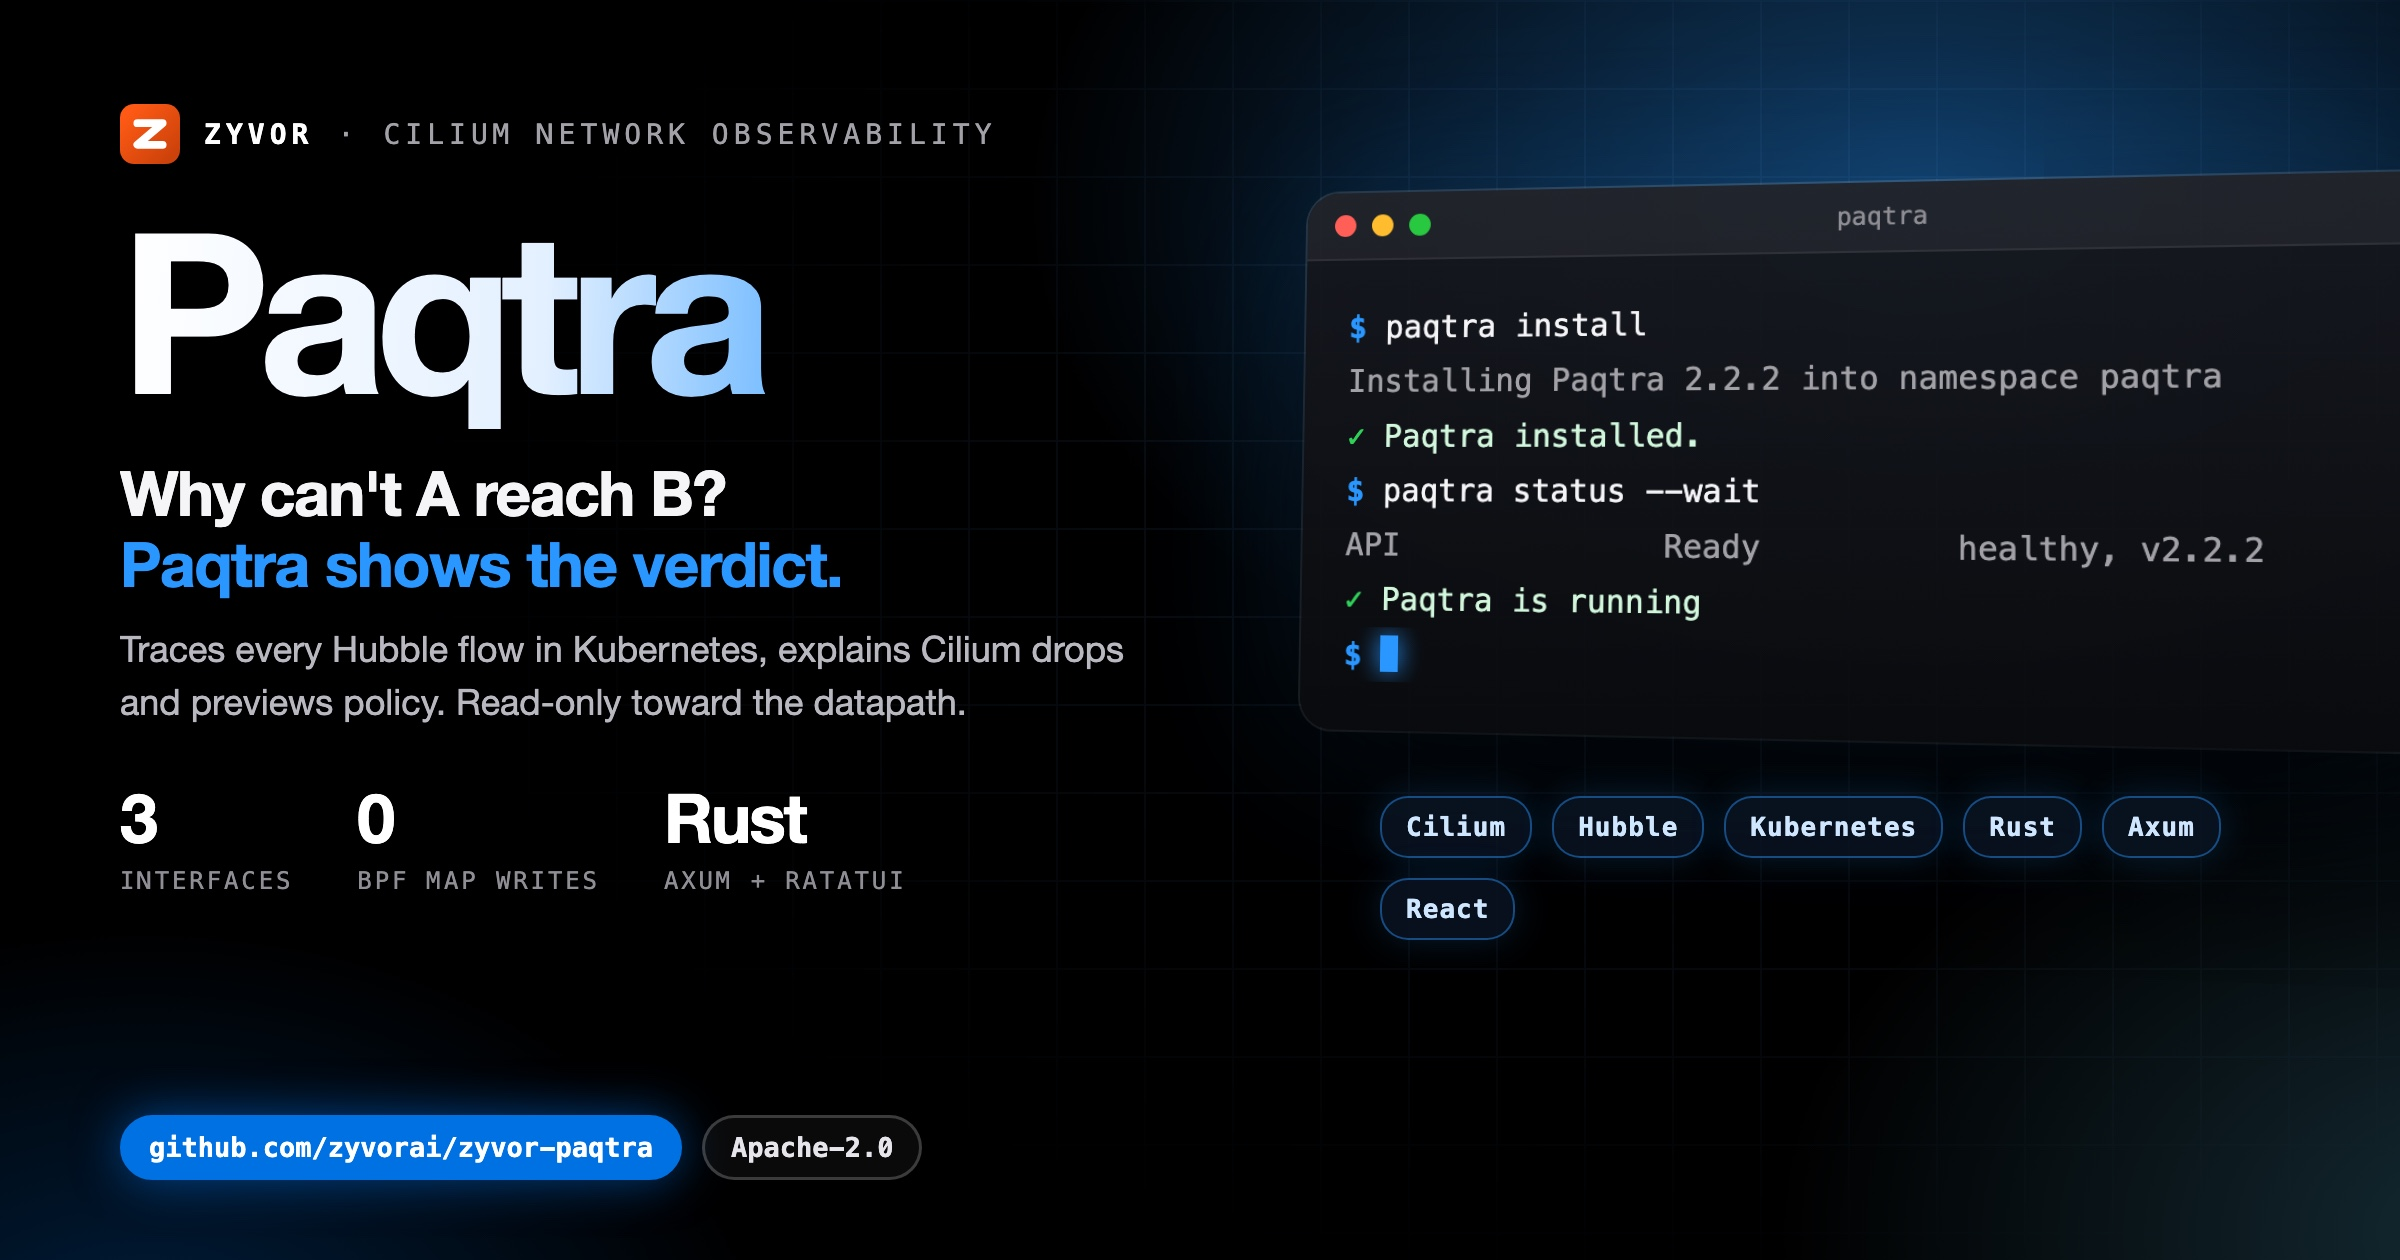
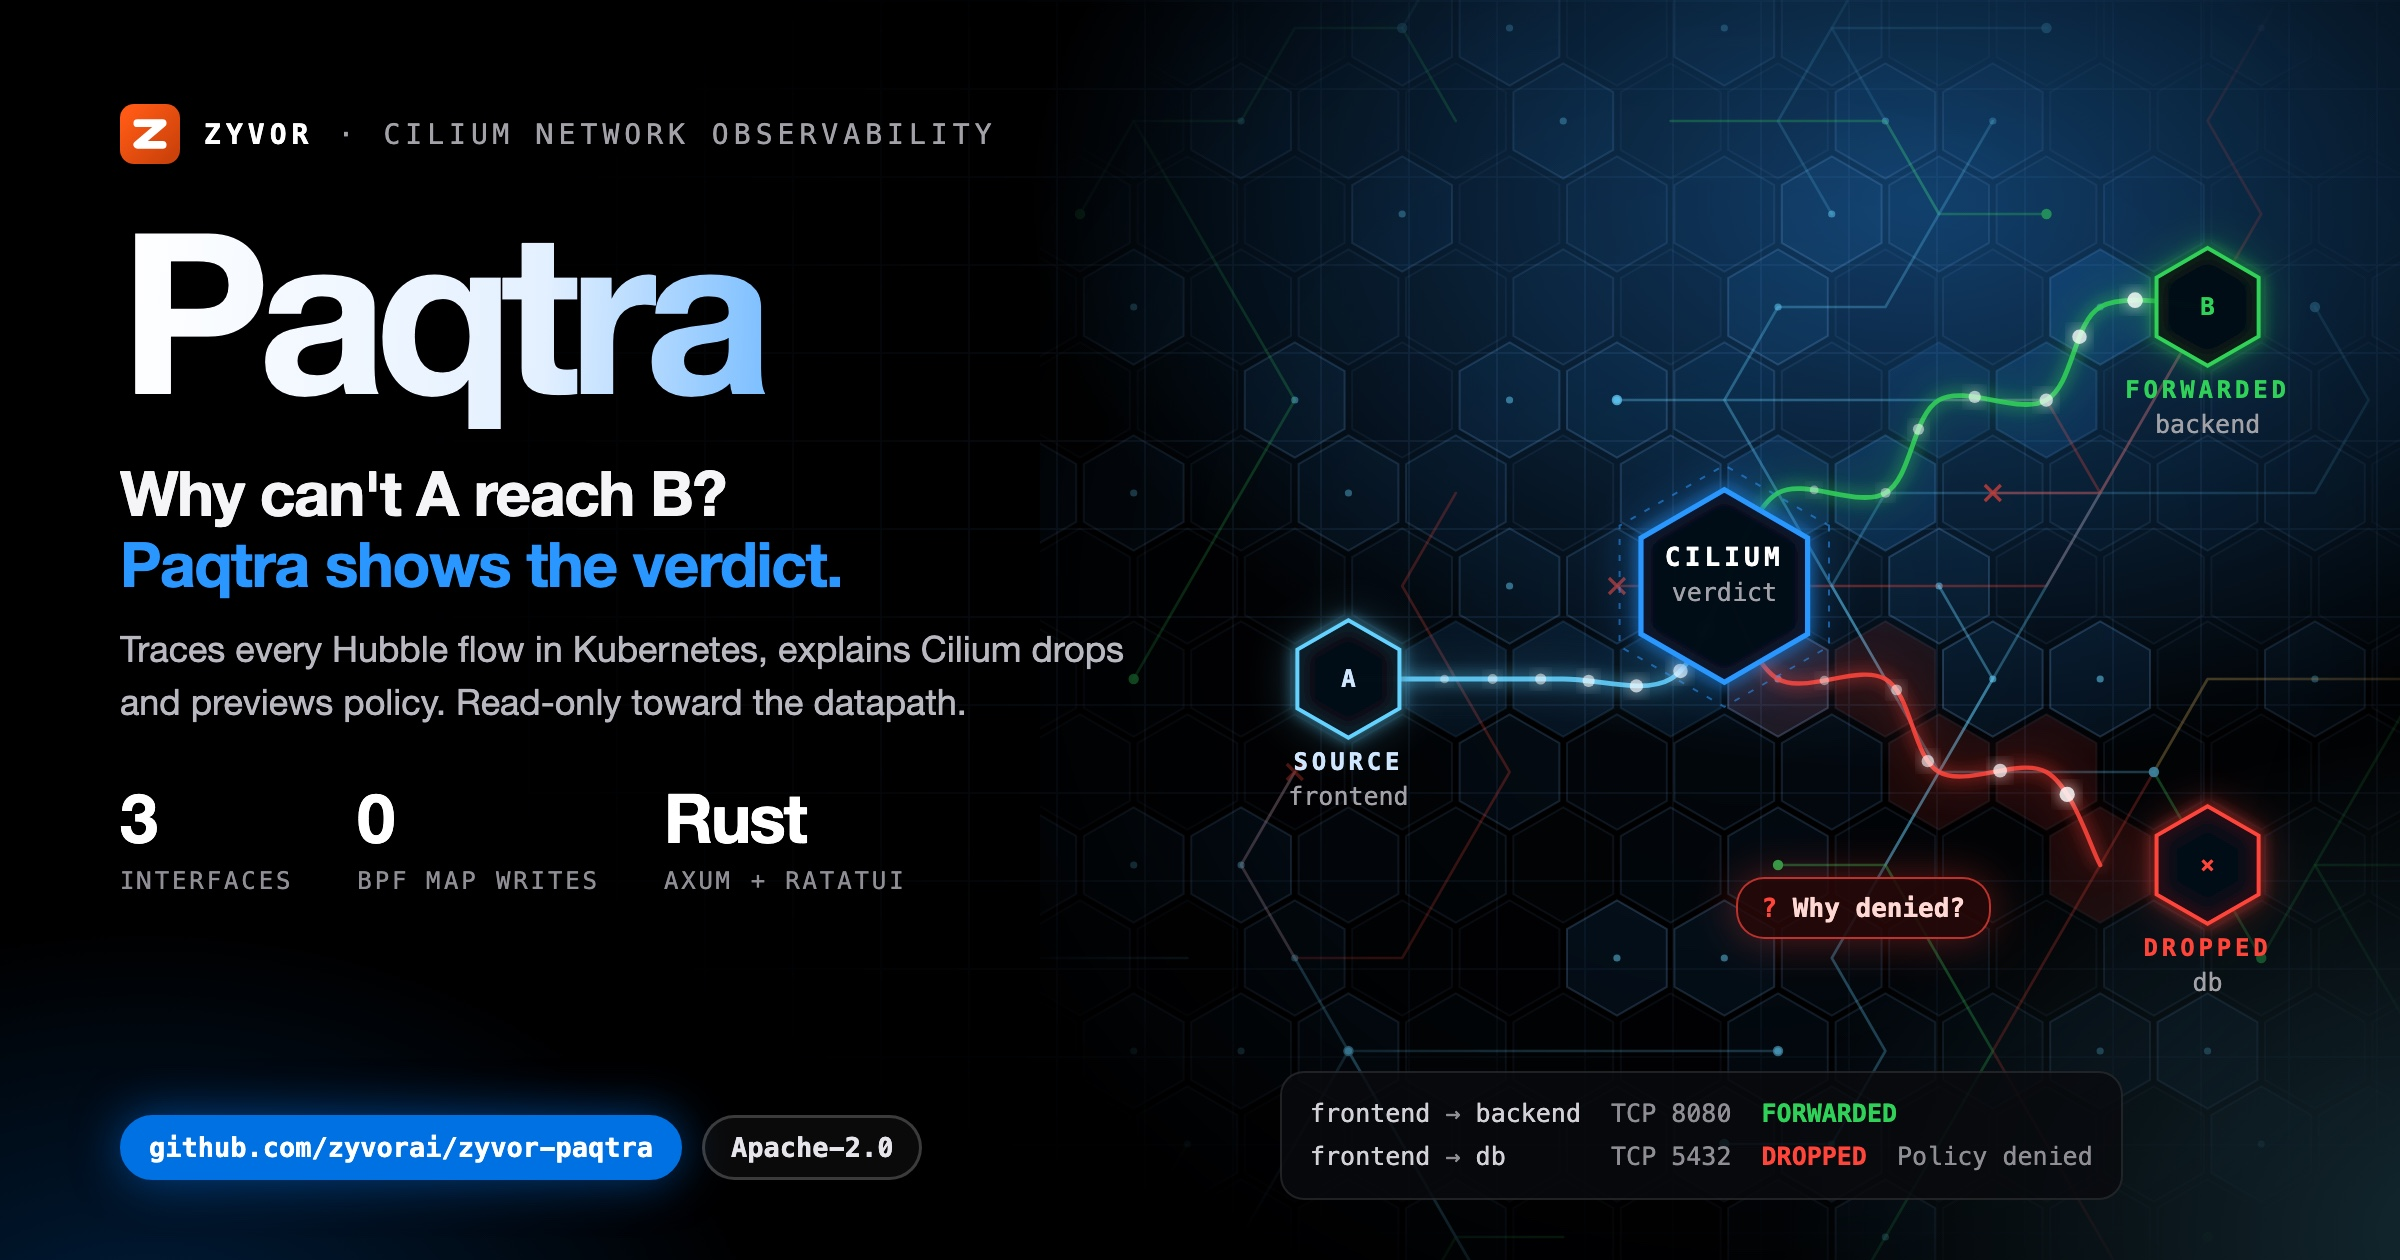
docs(social): Cilium honeycomb hero with a traced A-to-B verdict
Hex lattice of workloads with ambient Hubble flow trails; one traced
packet runs from frontend through the Cilium verdict hex, forwarded to
backend and dropped at db with a Why denied? callout. Point the docs
site social image at the new card.

Changed region(s): [[0.5312, 0.1238, 1.0, 0.8357], [0.5312, 0.8667, 0.875, 0.9286], [0.5312, 0.7429, 0.5625, 0.7738]]

diff --git a/docs/social/paqtra-hero-dark.html b/docs/social/paqtra-hero-dark.html
@@ -8,7 +8,7 @@
   Build: ./docs/social/build-hero-dark.sh  ->  paqtra-hero-dark.jpg (2400x1260)
 -->
 <style>
-  :root { --blue:#0071e3; --signal:#2997ff; --cyan:#64d2ff; --green:#30d158; --amber:#ff9f0a;
+  :root { --blue:#0071e3; --signal:#2997ff; --cyan:#64d2ff; --green:#30d158; --amber:#ff9f0a; --red:#ff453a;
     --sans:'SF Pro Display','Helvetica Neue',Helvetica,Arial,sans-serif; --mono:'SF Mono',Menlo,Consolas,monospace; }
   * { box-sizing:border-box; }
   html,body { margin:0; padding:0; }
@@ -35,25 +35,18 @@
   .pill span { font-family:var(--mono); font-size:13.5px; font-weight:700; padding:7px 13px; border-radius:18px; border:1.5px solid rgba(255,255,255,.2); color:#e5e5ea; background:rgba(255,255,255,.04); }
   .pill span.b { background:var(--blue); border-color:var(--blue); color:#fff; box-shadow:0 0 24px rgba(0,113,227,.55); }
 
-  .right { position:absolute; left:652px; top:96px; width:560px; z-index:2; }
-  .win { position:relative; width:560px; border-radius:16px; overflow:hidden; z-index:2;
-    background:linear-gradient(180deg, rgba(22,24,30,.94), rgba(10,11,14,.96));
-    box-shadow:0 50px 100px rgba(0,0,0,.75), 0 0 0 1px rgba(255,255,255,.14), 0 0 90px rgba(41,151,255,.22);
-    transform:perspective(1600px) rotateY(-14deg) rotateX(4deg); transform-origin:left center; }
-  .bar { height:34px; display:flex; align-items:center; gap:8px; padding:0 14px; background:rgba(255,255,255,.05); border-bottom:1px solid rgba(255,255,255,.07); }
-  .bar i { width:11px; height:11px; border-radius:50%; background:#ff5f57; } .bar i:nth-child(2){background:#febc2e} .bar i:nth-child(3){background:#28c840}
-  .bar em { margin-left:auto; margin-right:auto; font-style:normal; font-family:var(--mono); font-size:12px; color:#8e8e93; transform:translateX(-24px); }
-  .term { min-height:214px; padding:20px 22px 24px; font-family:var(--mono); font-size:15.5px; line-height:1.75; }
-  .l { white-space:pre; overflow:hidden; text-overflow:ellipsis; color:#f5f5f7; }
-  .l .p { color:var(--signal); font-weight:700; }
-  .l.out { color:#a1a1a6; }
-  .l.cm { color:#6e6e73; }
-  .l.ok { color:#d1f7dc; } .l.ok span { color:var(--green); font-weight:700; }
-  .l.warn { color:#ffe1b0; } .l.warn span { color:var(--amber); font-weight:700; }
-  .cur { display:inline-block; width:9px; height:18px; background:var(--signal); vertical-align:-3px; box-shadow:0 0 12px var(--signal); }
-  .chips { margin:34px 0 0 38px; width:480px; display:flex; flex-wrap:wrap; gap:10px; position:relative; z-index:3; }
-  .chips span { font-family:var(--mono); font-size:13px; font-weight:700; letter-spacing:.04em; padding:7px 12px; border-radius:14px;
-    color:#cfe6ff; background:rgba(10,20,35,.82); border:1px solid rgba(41,151,255,.45); box-shadow:0 0 18px rgba(41,151,255,.18); }
+  .hive { position:absolute; left:520px; top:0; width:680px; height:630px; z-index:2; }
+  .hive svg { display:block; }
+  .lbl { position:absolute; z-index:4; font-family:var(--mono); text-align:center; transform:translate(-50%,-50%); white-space:nowrap; }
+  .lbl b { display:block; font-size:12px; letter-spacing:.16em; text-transform:uppercase; }
+  .lbl span { display:block; margin-top:3px; font-size:12.5px; color:#a1a1a6; }
+  .lbl.a b { color:#cfe6ff; } .lbl.c b { color:#fff; font-size:13px; } .lbl.ok b { color:var(--green); } .lbl.no b { color:var(--red); }
+  .why { position:absolute; z-index:5; font-family:var(--mono); font-size:13px; font-weight:700; padding:7px 12px; border-radius:14px;
+    color:#ffd7d3; background:rgba(40,8,8,.85); border:1px solid rgba(255,69,58,.7); box-shadow:0 0 22px rgba(255,69,58,.35); }
+  .why i { font-style:normal; color:var(--red); }
+  .flow { position:absolute; left:640px; bottom:30px; z-index:5; font-family:var(--mono); font-size:12.5px; line-height:1.7; color:#8e8e93;
+    padding:10px 14px; border-radius:12px; white-space:pre; background:rgba(8,10,14,.82); border:1px solid rgba(255,255,255,.1); }
+  .flow .f { color:var(--green); font-weight:700; } .flow .d { color:var(--red); font-weight:700; } .flow em { font-style:normal; color:#d1d1d6; }
 </style>
 </head>
 <body>
@@ -67,8 +60,95 @@
   <div class="stats"><div class="stat"><b>3</b><span>interfaces</span></div><div class="stat"><b>0</b><span>BPF map writes</span></div><div class="stat"><b>Rust</b><span>Axum + Ratatui</span></div></div>
 </div>
 <div class="pill"><span class="b">github.com/zyvorai/zyvor-paqtra</span><span>Apache-2.0</span></div>
-<div class="right"><div class="win"><div class="bar"><i></i><i></i><i></i><em>paqtra</em></div>
-<div class="term"><div class="l"><span class="p">$</span> paqtra install</div><div class="l out">Installing Paqtra 2.2.2 into namespace paqtra</div><div class="l ok"><span>&#10003;</span> Paqtra installed.</div><div class="l"><span class="p">$</span> paqtra status --wait</div><div class="l out">API              Ready          healthy, v2.2.2</div><div class="l ok"><span>&#10003;</span> Paqtra is running</div><div class="l"><span class="p">$</span> <i class="cur"></i></div></div></div>
-<div class="chips"><span>Cilium</span><span>Hubble</span><span>Kubernetes</span><span>Rust</span><span>Axum</span><span>React</span></div></div>
+<div class="hive"><svg id="hive" width="680" height="630" viewBox="0 0 680 630" xmlns="http://www.w3.org/2000/svg">
+  <defs>
+    <radialGradient id="fade" cx="52%" cy="48%" r="62%"><stop offset="0" stop-color="#fff"/><stop offset=".62" stop-color="#fff" stop-opacity=".55"/><stop offset="1" stop-color="#fff" stop-opacity="0"/></radialGradient>
+    <mask id="m"><rect width="680" height="630" fill="url(#fade)"/></mask>
+    <filter id="glow" x="-50%" y="-50%" width="200%" height="200%"><feGaussianBlur stdDeviation="4" result="b"/><feMerge><feMergeNode in="b"/><feMergeNode in="SourceGraphic"/></feMerge></filter>
+    <filter id="soft" x="-50%" y="-50%" width="200%" height="200%"><feGaussianBlur stdDeviation="10"/></filter>
+  </defs>
+  <g id="cells" mask="url(#m)"></g>
+  <g id="ambient" mask="url(#m)"></g>
+  <g id="trace"></g>
+</svg></div>
+<div id="labels"></div>
+<div class="flow"><div><em>frontend</em> &rarr; <em>backend</em>  TCP 8080  <span class="f">FORWARDED</span></div><div><em>frontend</em> &rarr; <em>db</em>       TCP 5432  <span class="d">DROPPED</span>  Policy denied</div></div>
+<script>
+(function () {
+  var NS = 'http://www.w3.org/2000/svg', S = 31, R3 = Math.sqrt(3), OX = 20, OY = 14;
+  var seed = 20261004;
+  function rnd() { seed = (seed * 1103515245 + 12345) % 2147483648; return seed / 2147483648; }
+  function el(tag, a, parent) { var e = document.createElementNS(NS, tag); for (var k in a) e.setAttribute(k, a[k]); parent.appendChild(e); return e; }
+  function px(q, r) { return [OX + S * R3 * (q + r / 2), OY + S * 1.5 * r]; }
+  function hexPts(cx, cy, s) { var p = []; for (var i = 0; i < 6; i++) { var a = Math.PI / 180 * (60 * i - 30); p.push((cx + s * Math.cos(a)).toFixed(1) + ',' + (cy + s * Math.sin(a)).toFixed(1)); } return p.join(' '); }
+  function round(q, r) { var x = q, z = r, y = -x - z, rx = Math.round(x), ry = Math.round(y), rz = Math.round(z);
+    var dx = Math.abs(rx - x), dy = Math.abs(ry - y), dz = Math.abs(rz - z);
+    if (dx > dy && dx > dz) rx = -ry - rz; else if (dy <= dz) rz = -rx - ry; return [rx, rz]; }
+  function cellAt(x, y) { var r = (y - OY) / (S * 1.5), q = (x - OX) / (S * R3) - r / 2; return round(q, r); }
+  function line(a, b) { var n = Math.max(Math.abs(a[0] - b[0]), Math.abs(a[1] - b[1]), Math.abs((a[0] + a[1]) - (b[0] + b[1]))), out = [];
+    for (var i = 0; i <= n; i++) { var t = n ? i / n : 0; out.push(round(a[0] + (b[0] - a[0]) * t + 1e-6, a[1] + (b[1] - a[1]) * t + 1e-6)); } return out; }
+  function route(ws) { var out = []; for (var i = 0; i + 1 < ws.length; i++) { var l = line(ws[i], ws[i + 1]); if (i) l.shift(); out = out.concat(l); } return out; }
+  function smooth(cells) { var p = cells.map(function (c) { return px(c[0], c[1]); }), d = 'M' + p[0][0].toFixed(1) + ',' + p[0][1].toFixed(1);
+    for (var i = 0; i + 1 < p.length; i++) { var p0 = p[i - 1] || p[i], p1 = p[i], p2 = p[i + 1], p3 = p[i + 2] || p2;
+      d += ' C' + (p1[0] + (p2[0] - p0[0]) / 6).toFixed(1) + ',' + (p1[1] + (p2[1] - p0[1]) / 6).toFixed(1) + ' ' + (p2[0] - (p3[0] - p1[0]) / 6).toFixed(1) + ',' + (p2[1] - (p3[1] - p1[1]) / 6).toFixed(1) + ' ' + p2[0].toFixed(1) + ',' + p2[1].toFixed(1); }
+    return d; }
+
+  var cells = document.getElementById('cells'), amb = document.getElementById('ambient'), tr = document.getElementById('trace');
+  var key = function (c) { return c[0] + ':' + c[1]; }, all = [];
+  for (var r = -1; r < 15; r++) for (var q = -Math.ceil(r / 2) - 1; q < 15 - Math.floor(r / 2); q++) {
+    var c = px(q, r); if (c[0] < -40 || c[0] > 720 || c[1] < -40 || c[1] > 670) continue; all.push([q, r]);
+    var heat = Math.pow(rnd(), 2.4);
+    el('polygon', { points: hexPts(c[0], c[1], S - 2.2), fill: 'rgba(41,151,255,' + (0.015 + heat * 0.13).toFixed(3) + ')', stroke: 'rgba(120,185,255,' + (0.10 + heat * 0.22).toFixed(3) + ')', 'stroke-width': 1 }, cells);
+    if (heat > 0.55) el('circle', { cx: c[0], cy: c[1], r: 1.8, fill: '#64d2ff', opacity: (0.3 + heat * 0.5).toFixed(2) }, cells);
+  }
+
+  var dirs = [[1, 0], [1, -1], [0, -1], [-1, 0], [-1, 1], [0, 1]];
+  for (var w = 0; w < 30; w++) {
+    var cur = all[Math.floor(rnd() * all.length)], path = [cur], d = Math.floor(rnd() * 6), n = 4 + Math.floor(rnd() * 7);
+    for (var k = 0; k < n; k++) { if (rnd() < 0.35) d = (d + (rnd() < 0.5 ? 1 : 5)) % 6; cur = [cur[0] + dirs[d][0], cur[1] + dirs[d][1]]; path.push(cur); }
+    var drop = rnd() < 0.16, col = drop ? '#ff453a' : (rnd() < 0.5 ? '#30d158' : '#64d2ff'), op = (0.22 + rnd() * 0.3).toFixed(2);
+    el('polyline', { points: path.map(function (c) { var q = px(c[0], c[1]); return q[0].toFixed(1) + ',' + q[1].toFixed(1); }).join(' '), fill: 'none', 'stroke-linejoin': 'round', stroke: col, 'stroke-width': 1.3, 'stroke-linecap': 'round', opacity: op }, amb);
+    var e = px(cur[0], cur[1]);
+    if (drop) { el('path', { d: 'M' + (e[0] - 4) + ',' + (e[1] - 4) + 'l8,8m0,-8l-8,8', stroke: col, 'stroke-width': 1.6, opacity: op * 1.6 }, amb); }
+    else el('circle', { cx: e[0], cy: e[1], r: 2.6, fill: col, opacity: Math.min(1, op * 2.2) }, amb);
+  }
+
+  var A = cellAt(150, 330), C = cellAt(350, 280), B = cellAt(570, 140), D = cellAt(560, 430);
+  var fwd = route([A, cellAt(250, 350), C, cellAt(440, 200), B]);
+  var drp = route([C, cellAt(430, 380), D]);
+  function lightCells(list, col) { list.forEach(function (c) { var p = px(c[0], c[1]); el('polygon', { points: hexPts(p[0], p[1], S - 2.2), fill: col, opacity: .10, stroke: col, 'stroke-opacity': .45, 'stroke-width': 1.2 }, tr); }); }
+  lightCells(fwd, '#2997ff'); lightCells(drp.slice(1, -1), '#ff453a');
+
+  function beads(d, col, n, w) {
+    el('path', { d: d, fill: 'none', stroke: col, 'stroke-width': w * 3, opacity: .25, filter: 'url(#soft)' }, tr);
+    var p = el('path', { d: d, fill: 'none', stroke: col, 'stroke-width': w, 'stroke-linecap': 'round', opacity: .9, filter: 'url(#glow)' }, tr);
+    var L = p.getTotalLength();
+    for (var i = 1; i < n; i++) { var t = i / n, pt = p.getPointAtLength(L * t); el('circle', { cx: pt.x, cy: pt.y, r: (1.6 + 2.6 * t).toFixed(2), fill: '#fff', opacity: (0.25 + 0.7 * t).toFixed(2), filter: 'url(#glow)' }, tr); }
+    return p;
+  }
+  beads(smooth(route([A, cellAt(250, 350), C])), '#64d2ff', 9, 2.4);
+  beads(smooth(route([C, cellAt(440, 200), B])), '#30d158', 9, 2.4);
+  var dp = beads(smooth(drp.slice(0, -1)), '#ff453a', 7, 2.2);
+
+  function node(c, col, big) { var p = px(c[0], c[1]);
+    el('polygon', { points: hexPts(p[0], p[1], S * (big ? 1.9 : 1.15)), fill: col, opacity: .18, filter: 'url(#soft)' }, tr);
+    el('polygon', { points: hexPts(p[0], p[1], S * (big ? 1.55 : 0.95)), fill: 'rgba(6,10,18,.92)', stroke: col, 'stroke-width': big ? 2.6 : 2, filter: 'url(#glow)' }, tr);
+    if (big) el('polygon', { points: hexPts(p[0], p[1], S * 1.95), fill: 'none', stroke: col, 'stroke-width': 1, 'stroke-dasharray': '3 5', opacity: .55 }, tr);
+    return p; }
+  var pa = node(A, '#64d2ff'), pc = node(C, '#2997ff', true), pb = node(B, '#30d158'), pd = node(D, '#ff453a');
+  var end = dp.getPointAtLength(dp.getTotalLength()), ang = Math.atan2(pd[1] - end.y, pd[0] - end.x), bx = pd[0] - Math.cos(ang) * S * 1.25, by = pd[1] - Math.sin(ang) * S * 1.25;
+  var nx = -Math.sin(ang) * 16, ny = Math.cos(ang) * 16;
+  el('line', { x1: bx - nx, y1: by - ny, x2: bx + nx, y2: by + ny, stroke: '#ff453a', 'stroke-width': 4, 'stroke-linecap': 'round', filter: 'url(#glow)' }, tr);
+
+  var L = document.getElementById('labels'), HX = 520;
+  function lbl(cls, x, y, b, s) { var d = document.createElement('div'); d.className = 'lbl ' + cls; d.style.left = (HX + x) + 'px'; d.style.top = y + 'px'; d.innerHTML = '<b>' + b + '</b>' + (s ? '<span>' + s + '</span>' : ''); L.appendChild(d); }
+  lbl('a', pa[0], pa[1] + 50, 'source', 'frontend');
+  lbl('c', pc[0], pc[1] - 6, 'Cilium', 'verdict');
+  lbl('ok', pb[0], pb[1] + 50, 'forwarded', 'backend');
+  lbl('no', pd[0], pd[1] + 50, 'dropped', 'db');
+  [pa, pb, pd].forEach(function (p, i) { var t = document.createElement('div'); t.className = 'lbl ' + ['a', 'ok', 'no'][i]; t.style.left = (HX + p[0]) + 'px'; t.style.top = p[1] + 'px'; t.innerHTML = '<b style="letter-spacing:0">' + ['A', 'B', '&times;'][i] + '</b>'; L.appendChild(t); });
+  var why = document.createElement('div'); why.className = 'why'; why.innerHTML = '<i>?</i> Why denied?'; why.style.left = (HX + pd[0] - 236) + 'px'; why.style.top = (pd[1] + 6) + 'px'; L.appendChild(why);
+})();
+</script>
 </body>
 </html>

diff --git a/website/docusaurus.config.ts b/website/docusaurus.config.ts
@@ -57,7 +57,7 @@ const config: Config = {
   ],
 
   themeConfig: {
-    image: 'paqtra-share-card.png',
+    image: 'paqtra-hero-dark.jpg',
     colorMode: {
       defaultMode: 'dark',
       respectPrefersColorScheme: false,
